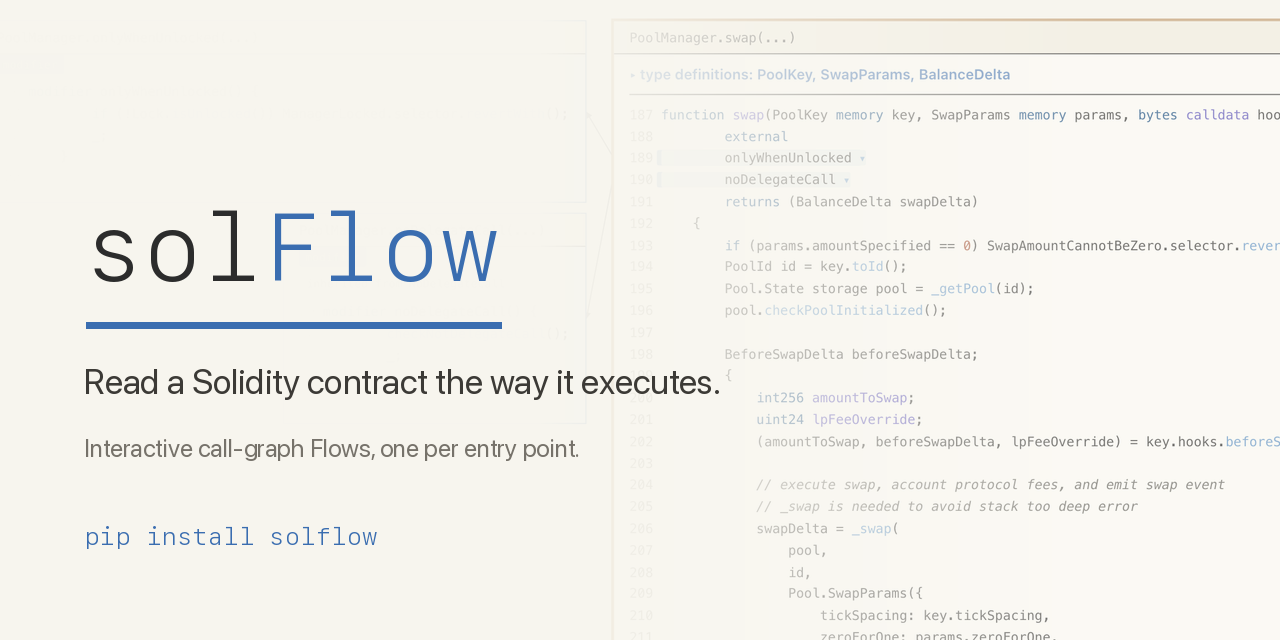
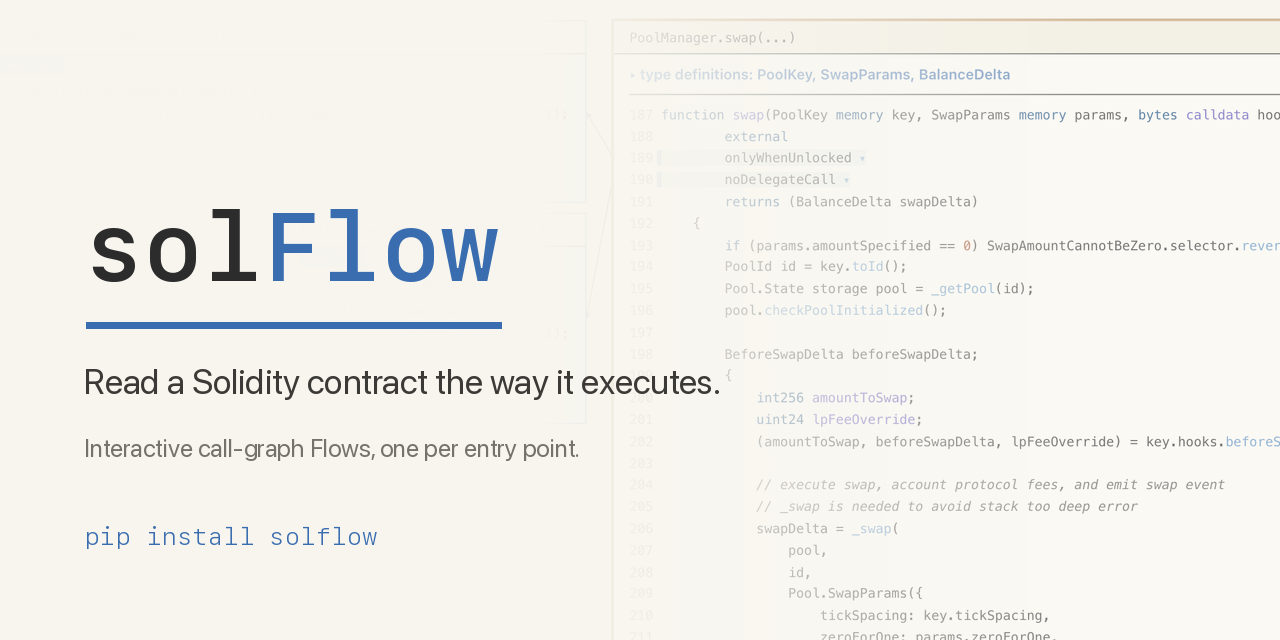
docs: bold the solFlow wordmark on the social card
Render the wordmark in true SF Mono Semibold (the app header's
font-weight 600) via the variable font's named instance, instead of
the too-thin regular weight. Matches the header brand exactly.

Changed region(s): [[0.2188, 0.3125, 0.4062, 0.4375], [0.0625, 0.3125, 0.2188, 0.4375]]

diff --git a/docs/probes/social_preview.py b/docs/probes/social_preview.py
@@ -45,6 +45,21 @@ def font(paths: list[str], size: int) -> ImageFont.FreeTypeFont:
     return ImageFont.load_default()
 
 
+def wordmark_font(size: int, instance: bytes = b"Semibold") -> ImageFont.FreeTypeFont:
+    """SF Mono at a named weight. The app header wordmark is --font-mono at
+    font-weight 600 = Semibold; SFNSMono.ttf is variable with that named
+    instance. Falls back to the first available MONO face if unavailable."""
+    try:
+        f = ImageFont.truetype("/System/Library/Fonts/SFNSMono.ttf", size)
+        try:
+            f.set_variation_by_name(instance)
+        except Exception:
+            pass
+        return f
+    except OSError:
+        return font(MONO, size)
+
+
 def main() -> None:
     src = Image.open(FRAMES / "05_swap_root_light.png").convert("RGB")
     crop = src.crop((620, 230, 2860, 1350)).resize((W, H), Image.LANCZOS)
@@ -64,7 +79,7 @@ def main() -> None:
     x = 84
     # `solFlow` wordmark (v0.23.0): monospace, `sol` in ink (--fg-text #2c2c2c),
     # `Flow` in blue (--node-mod-border #3a6db0) — matches the app header brand.
-    mark = font(MONO, 96)
+    mark = wordmark_font(96)
     d.text((x, 188), "sol", font=mark, fill=(44, 44, 44))
     sol_w = d.textlength("sol", font=mark)
     d.text((x + sol_w, 188), "Flow", font=mark, fill=(58, 109, 176))
